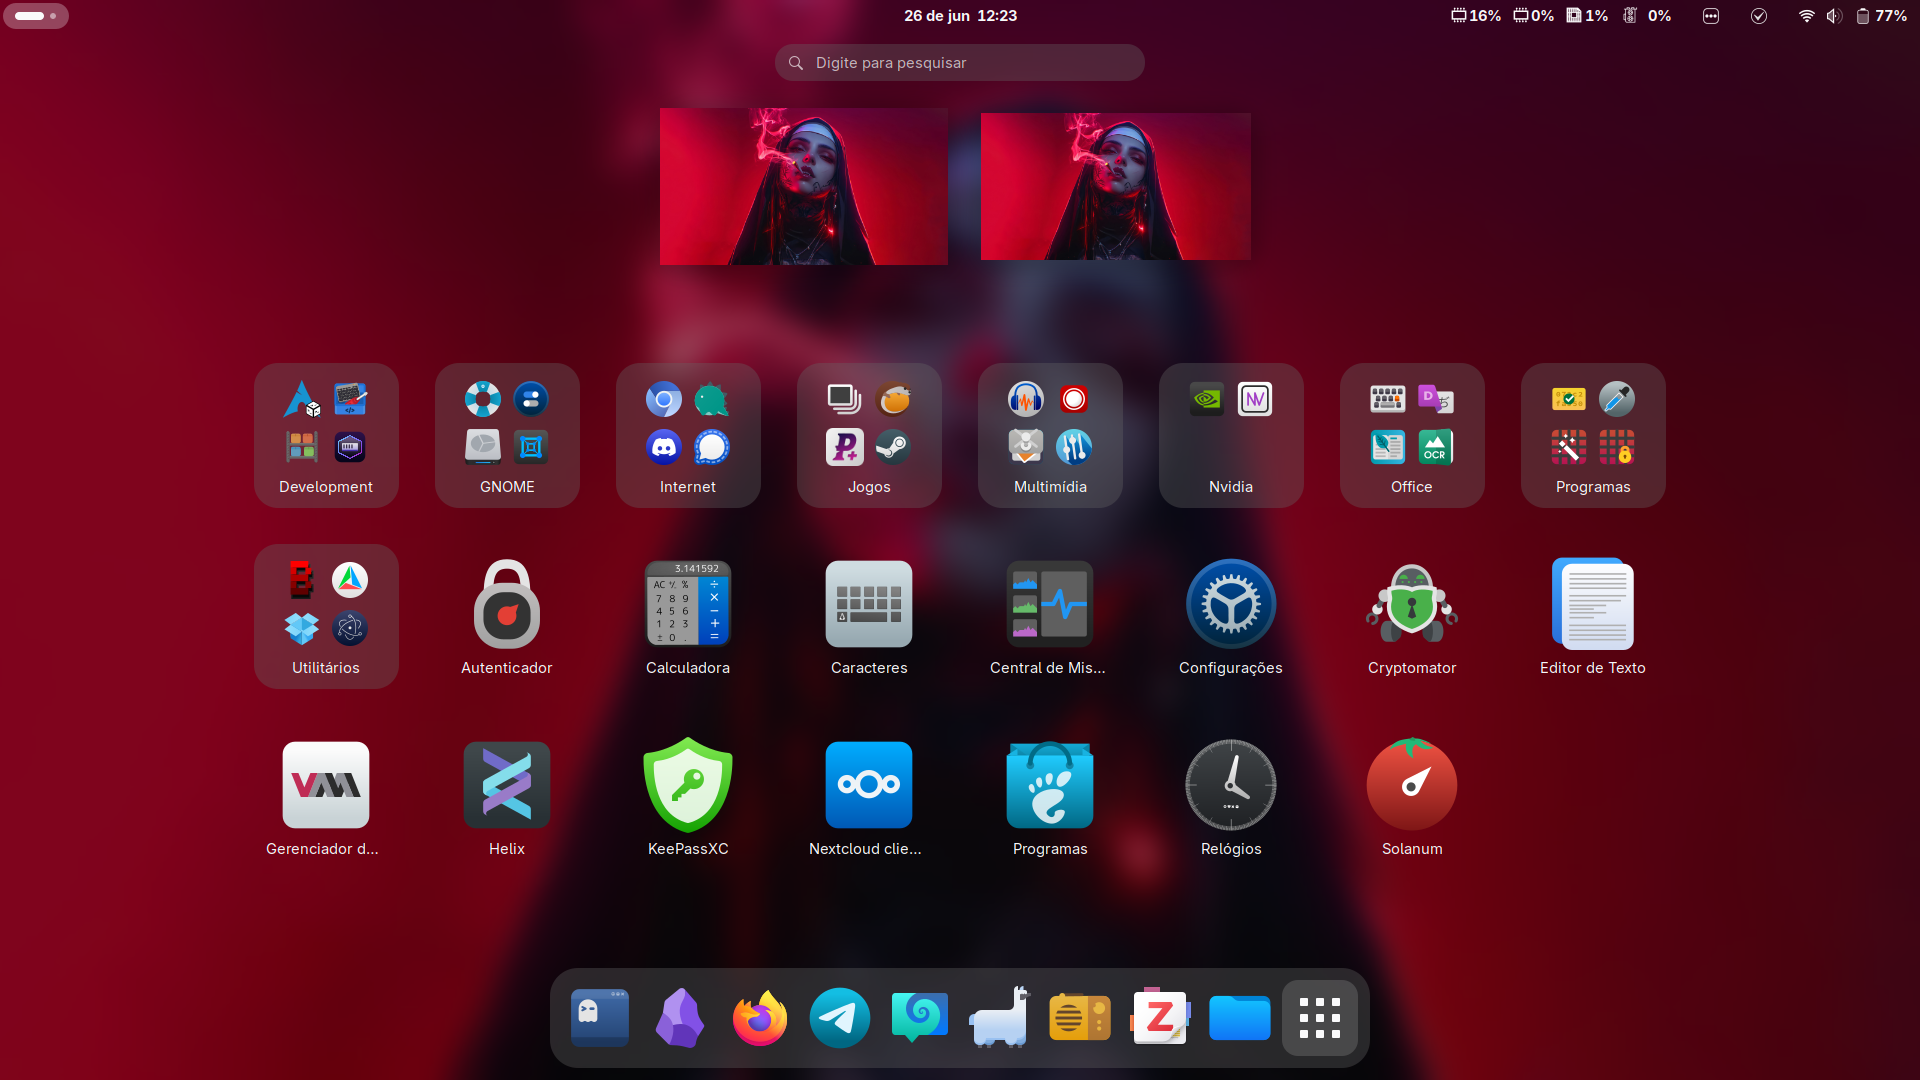
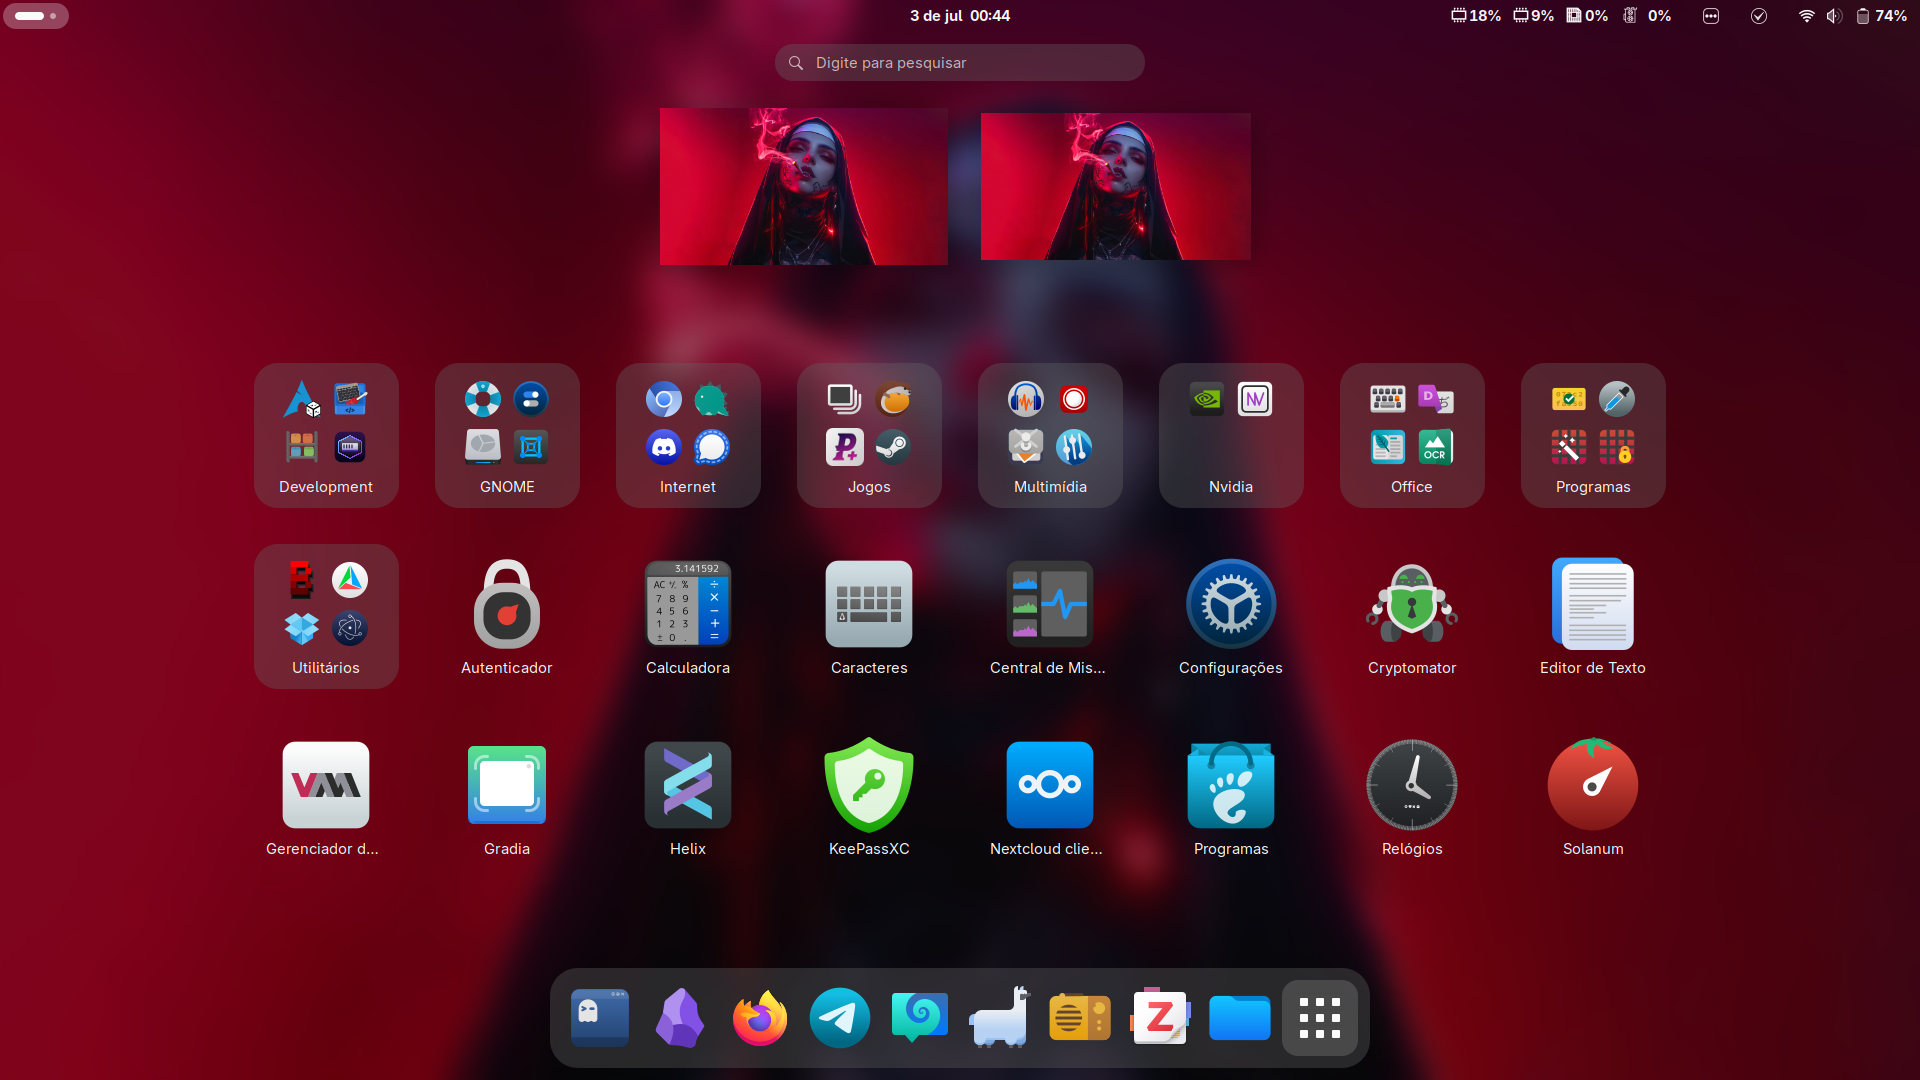
substituição do Flameshot pelo Gradia

Changed region(s): [[0.2188, 0.6722, 0.875, 0.7944], [0.4688, 0.0, 0.5312, 0.0306]]

diff --git a/aliases/.atalhos.md b/aliases/.atalhos.md
@@ -350,16 +350,16 @@ específico. ex.: trans :it home
 
 # PRINT
 
-_Tecla Print_ Abre as opções de captura de tela do Flameshot
+_Tecla Print_ Abre as opções de captura de tela
 
-_Ctrl + Alt + p_ Abre o menu do Gnome para gravação de tela, captura de janela e
-captura de tela.
+_Ctrl + Shift + Print_ Abre o menu do Gnome para captura de tela e depois o
+Gradia.
 
-_Shift + Print_ Salva a captura da tela na pasta Imagens e disponibiliza na área
-de transferência.
+_Ctrl + Print_ Faz a captura da tela inteira e abre no Gradia.
 
-_Alt + Print_ Faz a captura de uma janela salvando na parta imagens e
-disponibiliza na área de transferência.
+_Alt + Print_ Faz a captura da janela em foco salvando na pasta imagens e
+disponibiliza na área de transferência. _Shift + Print_ faz o mesmo procedimento
+de salvamento, mas o screenshot é da tela inteira.
 
 # Pacman
 
